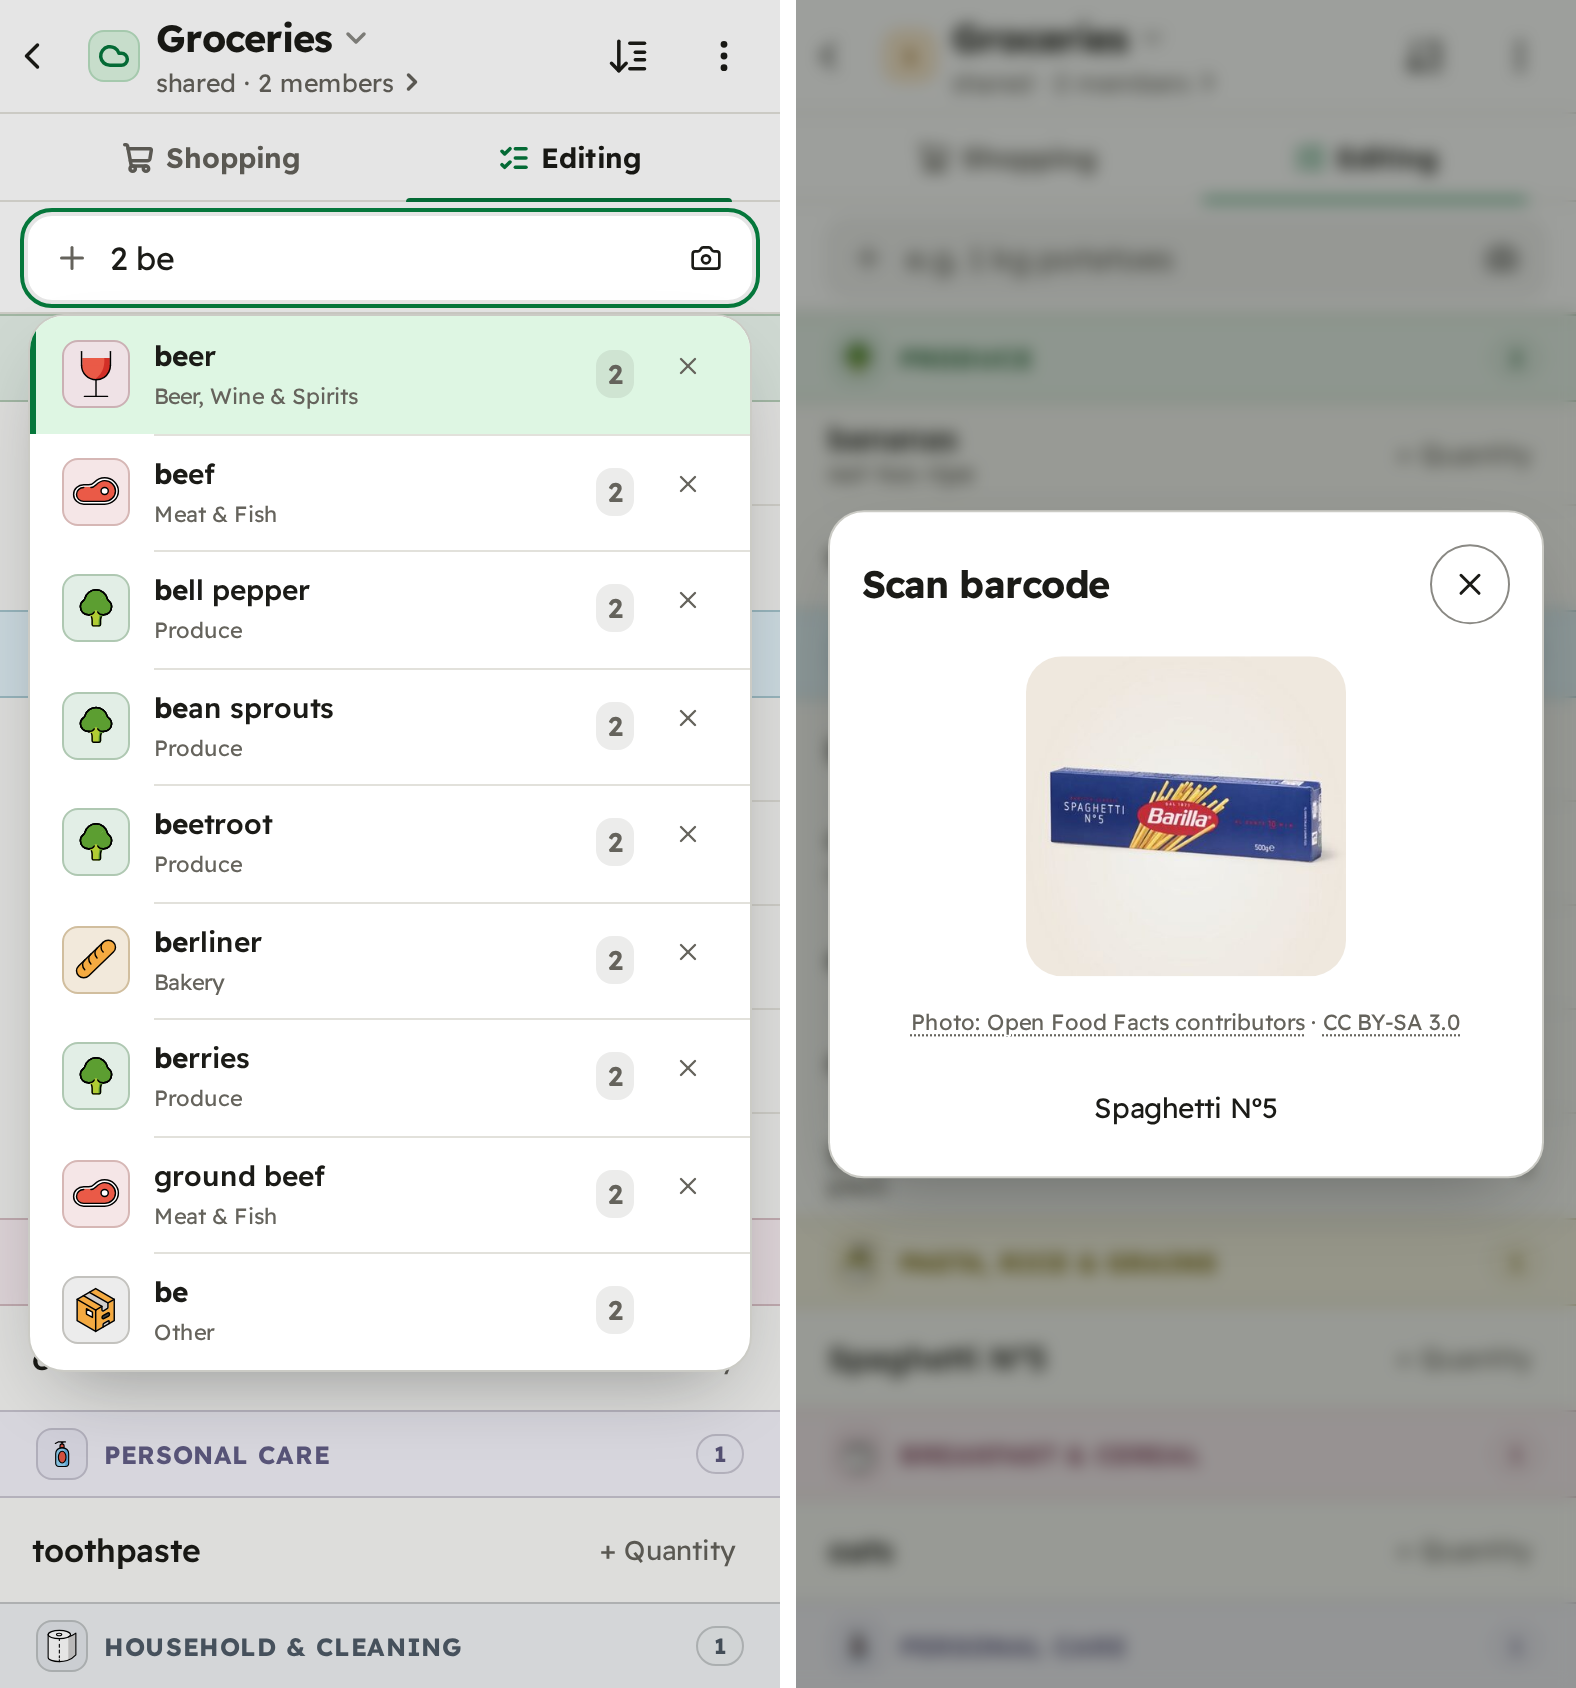
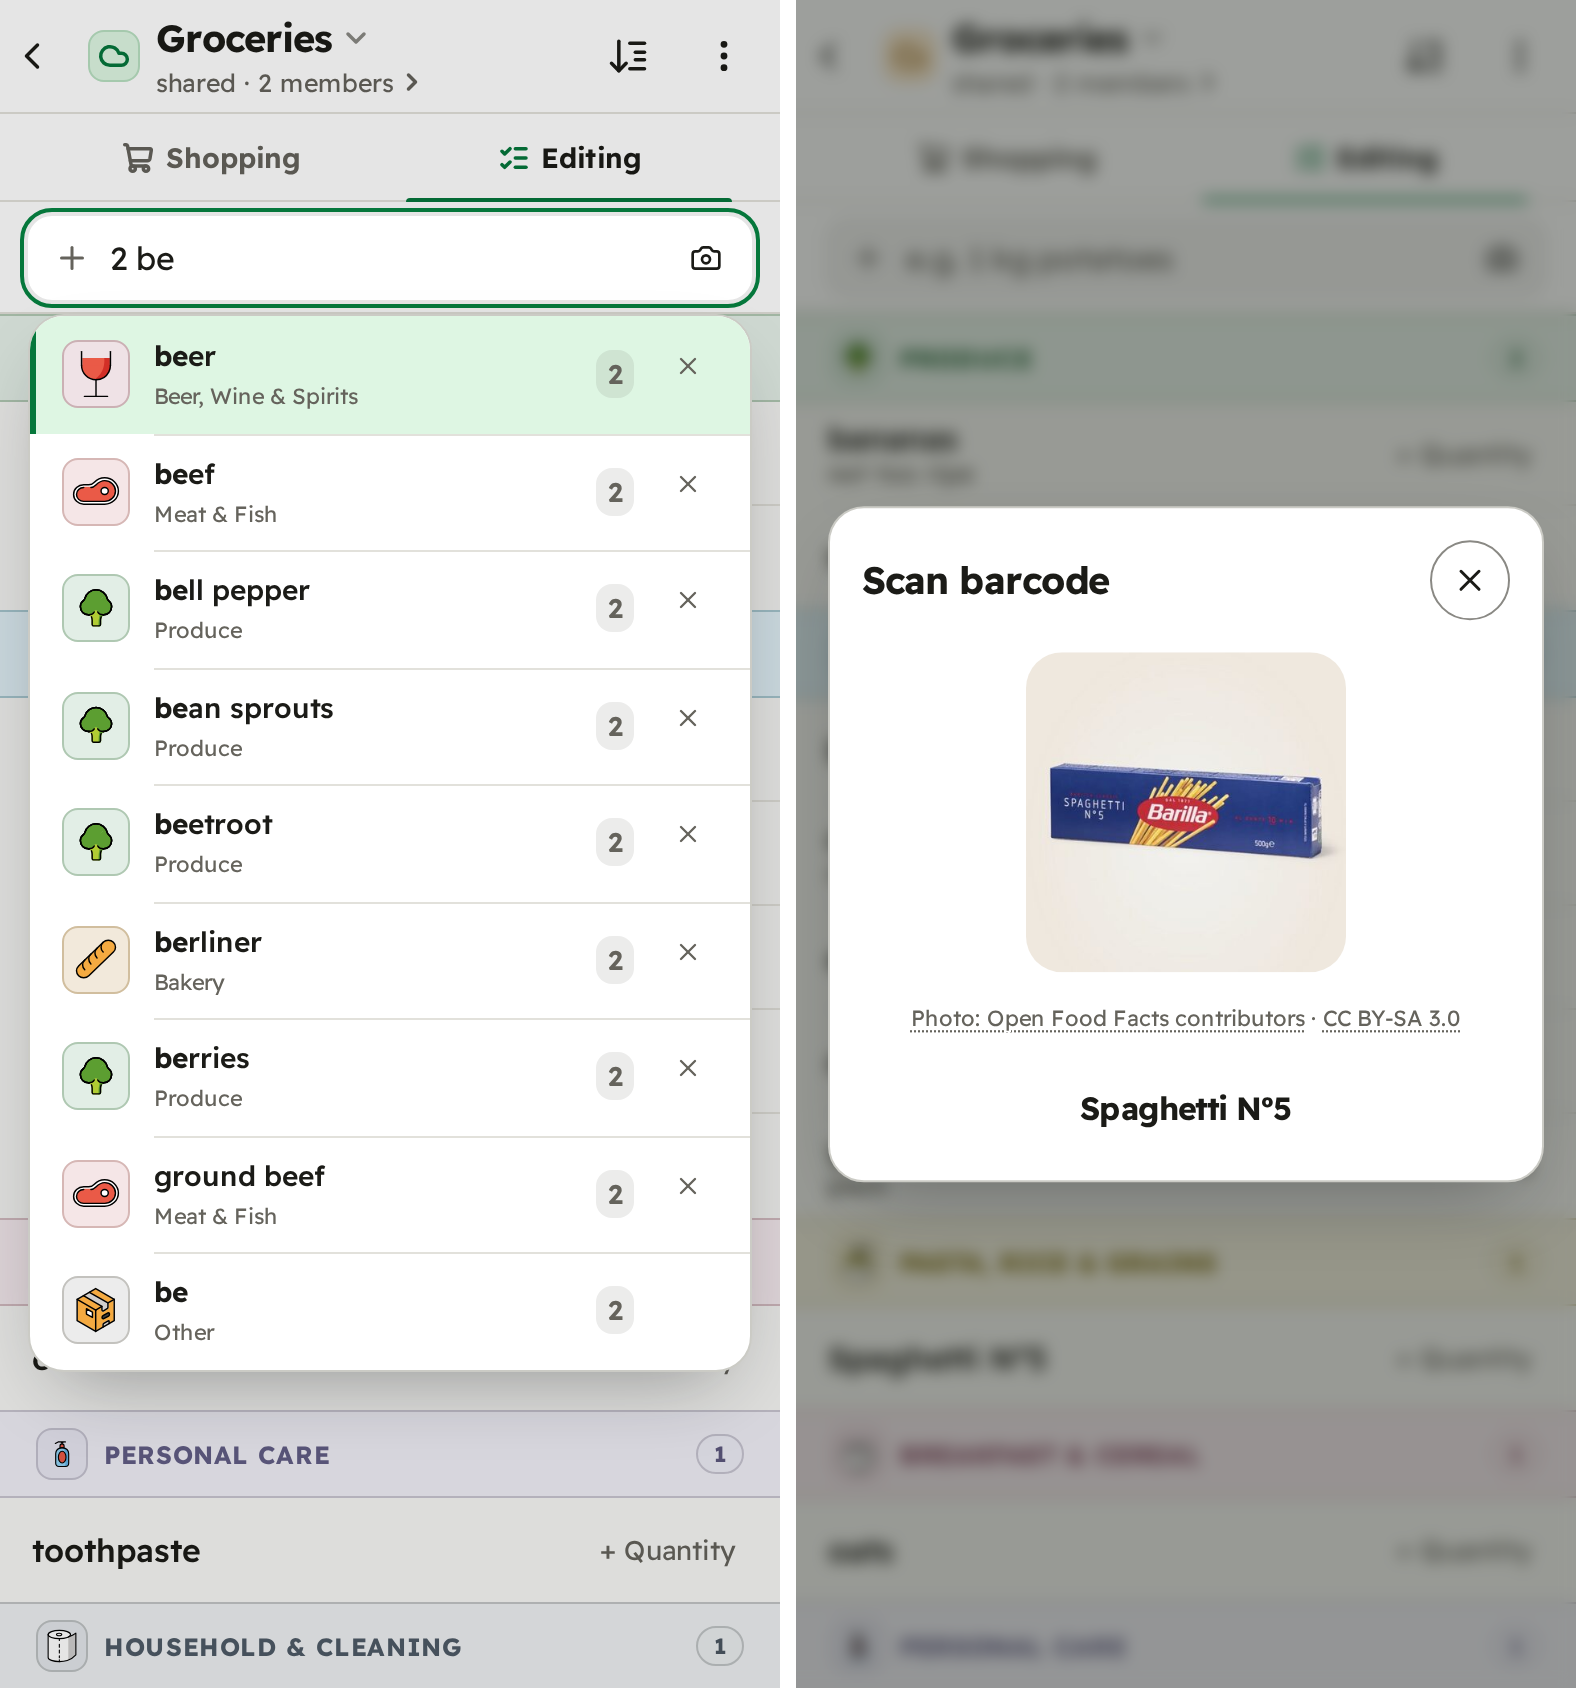
fix(ui): the design pass's quick fixes
- A tile or row whose quantity is cut short shows its door, as a cut name
  or note does ([D-83]); the tile audit fails cut text without one.
- The red buttons answer a press ([D-350]): the solid one darkens to a new
  danger-press token, the soft one firms its edge to the solid red, since
  a darker soft fill takes its red words below AA.
- A scanned product's name is set as the product sheet sets it.
- formatDate uses the medium date style: "Dec 9, 2026" in English, which
  reads one way, and German's numeric date unchanged.
- The invite QR's card is white in both themes (--qr-ground).
- The share sheet's roster closes with its own row rule (RuledRows
  `closed`), so the line sits at the last member's edge and ends where the
  rules between members do ([D-326]).
- A textarea drops its resize grip under a finger.

README add/item images and the share-sheet doc image regenerated.

diff --git a/frontend/src/lib/components/share/ShareSheet.svelte b/frontend/src/lib/components/share/ShareSheet.svelte
@@ -234,7 +234,9 @@
 {#snippet youBadge()}<Badge tone="primary">{t('share_you')}</Badge>{/snippet}
 
 <Sheet open={props.open} title={t('share_title')} onclose={props.onclose}>
-	<RuledRows flush class="roster">
+	<!-- Closed: its last rule parts it from the invite below, drawn as its
+	     row rules are and at its last row's edge ([D-326]). -->
+	<RuledRows flush closed class="roster">
 		{#each roster as m (m.id)}
 			{@const me = m.account === myAccountId}
 			<SettingsRow
@@ -254,9 +256,10 @@
 			<ErrorText>{inviteAction.error}</ErrorText>
 		{/if}
 		{#if shown}
-			<!-- On the sheet itself under a rule, not in a box of its own: a box in
-			     the sheet, with the QR's frame inside it, nested three deep ([D-280]). -->
-			<div class="flex flex-col gap-3 border-t border-border pt-4">
+			<!-- On the sheet itself under the roster's rule, not in a box of its
+			     own: a box in the sheet, with the QR's frame inside it, nested
+			     three deep ([D-280]). -->
+			<div class="flex flex-col gap-3">
 				{#if url}
 					<!-- The band: its chosen side stands out against the track. -->
 					<Segmented
@@ -294,7 +297,7 @@
 							{:else}
 								<div class="flex flex-col items-center gap-1.5">
 									<div
-										class="qr size-33 bg-surface border border-border rounded-card p-2 [&_svg]:block [&_svg]:size-full"
+										class="qr size-33 bg-(--qr-ground) border border-border rounded-card p-2 [&_svg]:block [&_svg]:size-full"
 										data-testid="qr"
 									>
 										<!-- eslint-disable-next-line svelte/no-at-html-tags -- our own qrcode-generator SVG over a URL we minted (crypto-random token, §7.1); never user-supplied HTML. -->
@@ -322,7 +325,7 @@
 			</div>
 		{:else if linkless}
 			<!-- [D-330] No live link: nobody can join until a member creates one. -->
-			<div class="flex flex-col gap-3 border-t border-border pt-4">
+			<div class="flex flex-col gap-3">
 				<Hint>{t('share_no_link')}</Hint>
 				<Button type="button" disabled={inviteAction.busy} onclick={() => void handleReset()}>
 					{t('share_create_link')}

diff --git a/frontend/src/app.css b/frontend/src/app.css
@@ -164,6 +164,13 @@
 		background-position: right top;
 	}
 }
+/* The same line under the last row, where another part follows the rows. */
+@utility ruled-rows-closed {
+	background-image: linear-gradient(var(--border), var(--border));
+	background-repeat: no-repeat;
+	background-size: calc(100% - var(--rule-inset, 0px)) 1px;
+	background-position: right bottom;
+}
 
 /* A highlighted option in a list of rows (the typeahead): a 3px line on its
  * start edge in the text green, beside the soft-green fill ([D-321]). The
@@ -206,6 +213,7 @@
 	--color-amber-line: var(--amber-line);
 	--color-danger: var(--danger);
 	--color-danger-foreground: var(--danger-foreground);
+	--color-danger-press: var(--danger-press);
 	--color-danger-soft: var(--danger-soft);
 	--color-danger-line: var(--danger-line);
 
@@ -317,9 +325,14 @@
 
 	--surface: #ffffff;
 	--surface-2: #ffffff;
+	/* The QR's card, white in both themes: the code draws dark modules on
+	   its own white, and a scanner reads it that way round. */
+	--qr-ground: #ffffff;
 	--line-strong: #cbcbc5; /* oklch(0.84 0.008 100) */
 	--faint: #8a8984; /* oklch(0.63 0.008 100) — icons and glyphs only, never text: 3:1 on every surface */
 	--primary-press: #00662b; /* oklch(0.44 0.13 152) */
+	/* The solid red's press: the primary's step darker ([D-350]). */
+	--danger-press: #a52014; /* oklch(0.47 0.17 30) */
 	--primary-soft: #def6e3; /* oklch(0.95 0.035 152) */
 	--primary-line: #b8e0c1; /* oklch(0.87 0.06 152) */
 	/* The SyncBanner pending text and count glyph ([D-102]: expired moved to
@@ -559,6 +572,7 @@
 	/* The primary fill's pressed/hover shade — darker, so white stays AA
 	   (5.9:1); a lighter one drops below it. */
 	--primary-press: #007439; /* oklch(0.49 0.13 152) */
+	--danger-press: #db6656; /* oklch(0.65 0.15 30) */
 	--primary-soft: #172c1c; /* oklch(0.27 0.04 150) */
 	--primary-line: #294b31; /* oklch(0.38 0.06 150) */
 	--amber: #e4ac59; /* oklch(0.78 0.12 75) */

diff --git a/frontend/src/lib/components/shop/ShopTile.svelte b/frontend/src/lib/components/shop/ShopTile.svelte
@@ -51,12 +51,14 @@
 
 	let model = $derived(tileModel(item, { photoFailed, row }));
 
-	// Truncation ([D-83]): whether the name's clamp or the note's ellipsis cuts
-	// text, which decides the door ([D-83]) and the cut name's alignment. Row
-	// names are cut in width, grid names in height.
+	// Truncation ([D-83]): whether the name's clamp or the note's or the
+	// quantity's ellipsis cuts text, which decides the door ([D-83]); the
+	// name's also decides its alignment. Row names are cut in width, grid
+	// names in height.
 	let tileEl = $state<HTMLElement | null>(null);
 	let nameEl = $state<HTMLElement | null>(null);
 	let noteEl = $state<HTMLElement | null>(null);
+	let qtyEl = $state<HTMLElement | null>(null);
 	let textEl = $state<HTMLElement | null>(null);
 	// How far above the tile's foot the text starts, for the photo scrim
 	// ([D-83]); null without a scrim. The lead covers the glyphs' shadow.
@@ -66,6 +68,7 @@
 	let scrimmed = $derived(model.kind === 'product' && !row);
 	let nameCut = $state(false);
 	let noteCut = $state(false);
+	let qtyCut = $state(false);
 
 	let measuredContent = $derived(
 		[model.kind, model.media, model.name, model.note, model.quantity, model.hidesDetails].join(
@@ -76,10 +79,12 @@
 	$effect(() => {
 		const name = nameEl;
 		const note = noteEl;
+		const qty = qtyEl;
 		void remeasure;
 		void row;
 		void measuredContent;
 		noteCut = note ? note.scrollWidth > note.clientWidth + 1 : false;
+		qtyCut = qty ? qty.scrollWidth > qty.clientWidth + 1 : false;
 		const tile = tileEl;
 		const text = textEl;
 		const top =
@@ -94,7 +99,7 @@
 			: false;
 	});
 
-	let door = $derived(showsDoor(model, nameCut || noteCut));
+	let door = $derived(showsDoor(model, nameCut || noteCut || qtyCut));
 </script>
 
 {#snippet leadFace()}
@@ -169,6 +174,7 @@
 				? 'tile-photo'
 				: 'tile'}
 		aria-hidden="true"
+		bind:ref={qtyEl}
 	/>
 	{#if door && !row}
 		<button

diff --git a/e2e/tiles/tile-audit.spec.ts b/e2e/tiles/tile-audit.spec.ts
@@ -13,7 +13,8 @@ import { openGallery } from './gallery';
 //     their element first);
 //   - the name squeezed below 24px (at 200% zoom the quantity and door keep
 //     their width and the name gets what is left);
-//   - a quantity cut without an ellipsis.
+//   - a quantity cut without an ellipsis;
+//   - a name, note or quantity cut with no ⓘ door to read it whole.
 //
 // Each of these is a geometry number that goes stale when a neighbouring
 // part changes, which is why it runs as its own harness ([D-83]).
@@ -114,6 +115,15 @@ function audit(page: Page) {
 				getComputedStyle(qty).textOverflow !== 'ellipsis'
 			)
 				issues.push('quantity cut without an ellipsis');
+			// The door shows while the tile hides something ([D-83]): any cut
+			// text opens it, the quantity's as much as the name's or note's.
+			const note = tile.querySelector('.tile-note');
+			const cut =
+				name.scrollHeight > name.clientHeight + 1 ||
+				name.scrollWidth > name.clientWidth + 1 ||
+				(note !== null && note.scrollWidth > note.clientWidth + 1) ||
+				(qty !== null && qty.scrollWidth > qty.clientWidth + 1);
+			if (cut && !tile.hasAttribute('data-door')) issues.push('text cut without a door');
 			if (issues.length)
 				findings.push(
 					`${wrap.dataset.item} (${tile.dataset.kind}${door ? '+door' : ''}): ${issues.join(', ')}`

diff --git a/frontend/src/lib/components/common/RuledRows.svelte b/frontend/src/lib/components/common/RuledRows.svelte
@@ -4,7 +4,8 @@
   `inset` is where the line starts: the row gutter on a page, the text
   column after a leading plate (`--row-rule-inset`). In a sheet, `flush`
   lets the rows (SettingsRow's `flush`) reach into the sheet's slack and
-  starts the line at it. The one way rows on a page are separated ([D-326]).
+  starts the line at it. `closed` draws the same line under the last row,
+  for rows a different part follows (the share sheet's roster). The one way rows on a page are separated ([D-326]).
 -->
 <script lang="ts">
 	import type { Snippet } from 'svelte';
@@ -13,12 +14,14 @@
 
 	let {
 		flush = false,
+		closed = false,
 		inset = flush ? '0.375rem' : 'var(--row-gutter)',
 		class: className,
 		children,
 		...rest
 	}: HTMLAttributes<HTMLDivElement> & {
 		flush?: boolean;
+		closed?: boolean;
 		inset?: string;
 		children: Snippet;
 	} = $props();
@@ -26,7 +29,12 @@
 
 <div
 	{...rest}
-	class={cn('ruled-rows flex flex-col', flush && '-mx-1.5', className)}
+	class={cn(
+		'ruled-rows flex flex-col',
+		flush && '-mx-1.5',
+		closed && 'ruled-rows-closed',
+		className
+	)}
 	style="--rule-inset: {inset}"
 >
 	{@render children()}

diff --git a/frontend/src/lib/components/ui/button/button.svelte b/frontend/src/lib/components/ui/button/button.svelte
@@ -33,9 +33,13 @@
 				// undone or redone (remove a passkey, leave a shared list, unlink a
 				// login), the solid one for what nothing brings back (deleting the
 				// account, the last member leaving a list) — so the two never look
-				// alike.
-				destructive: 'bg-danger-soft text-danger border border-danger-line',
-				danger: 'bg-danger text-danger-foreground border border-danger'
+				// alike. Both answer a press, the touch's one feedback ([D-350]):
+				// the solid darkens, the soft firms its edge to the solid red, since
+				// a darker soft fill takes the red words below AA.
+				destructive:
+					'bg-danger-soft text-danger border border-danger-line hover:border-danger active:border-danger',
+				danger:
+					'bg-danger text-danger-foreground border border-danger hover:border-danger-press hover:bg-danger-press active:border-danger-press active:bg-danger-press'
 			},
 			size: {
 				// One height for every text button ([D-312]); `sm` sits inside a

diff --git a/frontend/src/lib/i18n/format-date.test.ts b/frontend/src/lib/i18n/format-date.test.ts
@@ -1,0 +1,27 @@
+// `formatDate`, the invite link's expiry ("Gültig bis …"): German keeps its
+// numeric date, English names the month, since "12/09/2026" reads as
+// 9 December to one reader and 12 September to another.
+import { afterEach, describe, expect, it } from 'vitest';
+import { formatDate, getLocale, setLocale } from './index';
+
+const original = getLocale();
+afterEach(() => setLocale(original));
+
+// Midday UTC, so the date is the same in every test machine's time zone.
+const STAMP = '2026-12-09 12:00:00.000Z';
+
+describe('formatDate', () => {
+	it('writes German dates as numbers, day first', () => {
+		setLocale('de');
+		expect(formatDate(STAMP)).toBe('09.12.2026');
+	});
+
+	it('names the month in English, so the date reads one way only', () => {
+		setLocale('en');
+		expect(formatDate(STAMP)).toBe('Dec 9, 2026');
+	});
+
+	it('hands back what it cannot read', () => {
+		expect(formatDate('not a date')).toBe('not a date');
+	});
+});

diff --git a/frontend/src/lib/i18n/index.ts b/frontend/src/lib/i18n/index.ts
@@ -95,13 +95,15 @@ const collators = new Map<Locale, Intl.Collator>();
 const relativeFormats = new Map<string, Intl.RelativeTimeFormat>();
 const dateFormats = new Map<Locale, Intl.DateTimeFormat>();
 
-/** A calendar date in the active locale's numeric form ("04.10.2026",
- *  "10/04/2026"); an unparseable input comes back as given. */
+/** A calendar date in the active locale's medium form: German's numeric
+ *  "04.10.2026", English's "Oct 4, 2026", since a numeric English date reads
+ *  month-first to some and day-first to others. An unparseable input comes
+ *  back as given. */
 export function formatDate(iso: string): string {
 	const locale = getLocale();
 	let fmt = dateFormats.get(locale);
 	if (!fmt) {
-		fmt = new Intl.DateTimeFormat(locale, { day: '2-digit', month: '2-digit', year: 'numeric' });
+		fmt = new Intl.DateTimeFormat(locale, { dateStyle: 'medium' });
 		dateFormats.set(locale, fmt);
 	}
 	const ms = stampMs(iso);

diff --git a/frontend/src/lib/components/common/QuantityBadge.svelte b/frontend/src/lib/components/common/QuantityBadge.svelte
@@ -21,9 +21,17 @@
 		'aria-hidden'?: 'true';
 		/** Placement outside a tile; never inside one ([D-83]). */
 		class?: string;
+		/** The chip, for a tile that measures whether it cuts the quantity. */
+		ref?: HTMLElement | null;
 	}
 
-	let { quantity, variant = 'tile', 'aria-hidden': ariaHidden, class: className }: Props = $props();
+	let {
+		quantity,
+		variant = 'tile',
+		'aria-hidden': ariaHidden,
+		class: className,
+		ref = $bindable(null)
+	}: Props = $props();
 </script>
 
 {#if quantity}
@@ -40,6 +48,7 @@
 			className
 		)}
 		dir="auto"
+		bind:this={ref}
 		aria-hidden={ariaHidden}>{quantity}</span
 	>
 {/if}

diff --git a/frontend/src/lib/components/ui/textarea/textarea.svelte.test.ts b/frontend/src/lib/components/ui/textarea/textarea.svelte.test.ts
@@ -1,0 +1,14 @@
+// The resize grip is a mouse's tool: under a finger (pointer: coarse) the
+// field shows none, while a mouse keeps it.
+import { render } from '@testing-library/svelte';
+import { describe, expect, it } from 'vitest';
+import Textarea from './textarea.svelte';
+
+describe('Textarea', () => {
+	it('drops the resize grip on a touch screen only', () => {
+		const { container } = render(Textarea, { 'aria-label': 'Liste' });
+		const field = container.querySelector('textarea')!;
+		expect(field.classList).toContain('pointer-coarse:resize-none');
+		expect(field.classList).not.toContain('resize-none');
+	});
+});

diff --git a/frontend/src/lib/design-tokens.test.ts b/frontend/src/lib/design-tokens.test.ts
@@ -154,6 +154,7 @@ describe('design tokens meet WCAG AA where they are used as text', () => {
 		for (const [label, text, background] of [
 			['selected control', '--primary-foreground', '--primary'],
 			['primary button hover', '--primary-foreground', '--primary-press'],
+			['danger button press', '--danger-foreground', '--danger-press'],
 			// [D-281]: a chosen option, the soft green with green text.
 			['chosen option', '--primary-text', '--primary-soft'],
 			// [D-114]: the primary as text and lines on the page's own surfaces.

diff --git a/frontend/src/lib/components/ui/textarea/textarea.svelte b/frontend/src/lib/components/ui/textarea/textarea.svelte
@@ -12,13 +12,14 @@
 	}: WithElementRef<HTMLTextareaAttributes> = $props();
 
 	// Inside a Field, its error or hint describes this control ([D-325]).
+	// The resize grip is a mouse's tool; under a finger it is a stray mark.
 	const field = fieldState();
 </script>
 
 <textarea
 	bind:this={ref}
 	data-slot="textarea"
-	class={cn(fieldClass, className)}
+	class={cn(fieldClass, 'pointer-coarse:resize-none', className)}
 	bind:value
 	aria-invalid={field?.invalid || undefined}
 	aria-describedby={field?.describedBy}
